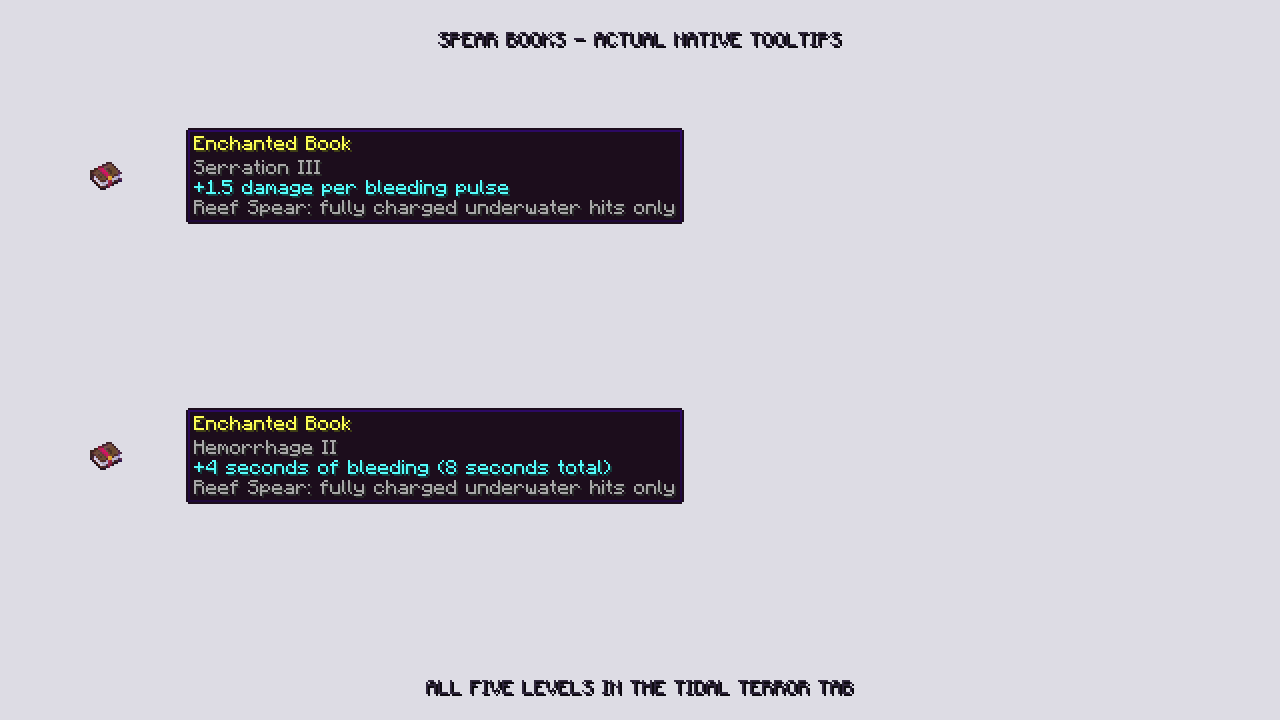
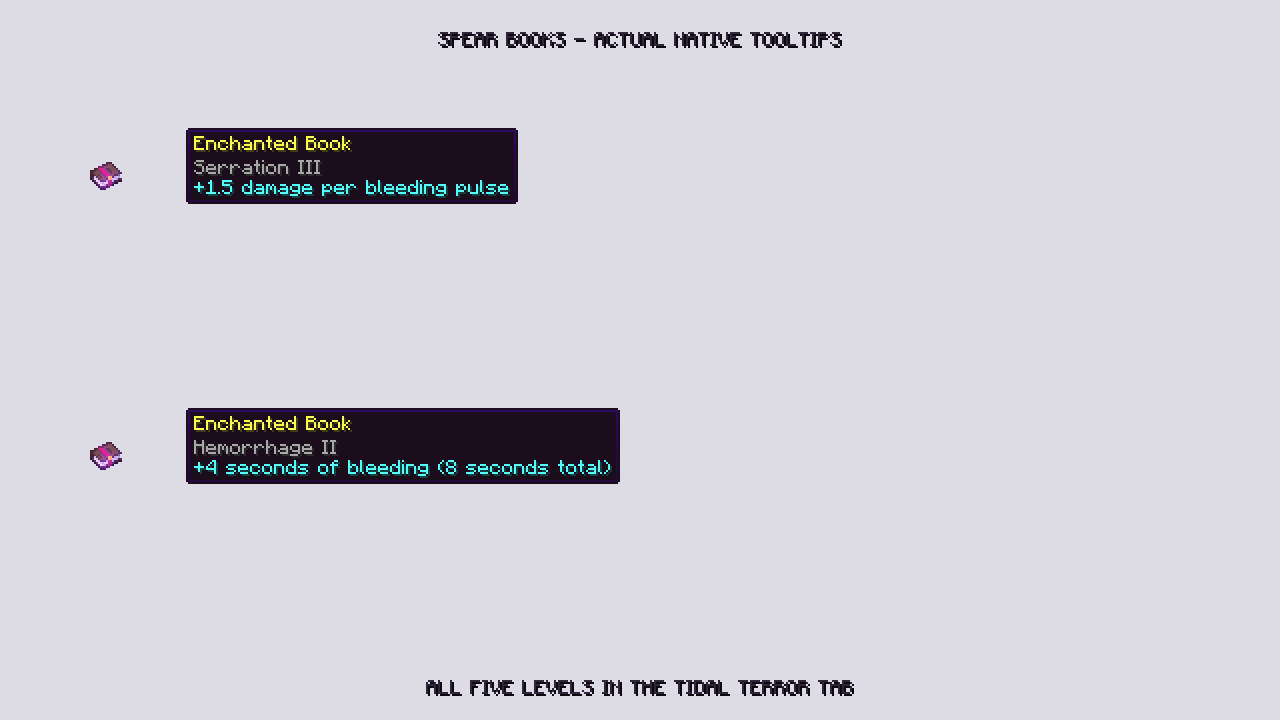
Record native fang arrow and general tooltip verification

diff --git a/docs/Reef-Sprites-and-Bleeding.md b/docs/Reef-Sprites-and-Bleeding.md
@@ -52,7 +52,7 @@ particles, native enchanting-table candidates, actual anvil/book assembly, succe
 JEI 15.20.0.118 loads through `localRuntime` in development clients. It follows
 the [official JEI setup for Minecraft 1.20.1](https://github.com/mezz/JustEnoughItems/wiki/Getting-Started-%5BMinecraft-1.18.2-to-1.20.1%5D).
 It is excluded from native server test runs and is not declared as a required
-mod dependency or bundled into the released JAR. All five shaped equipment
+mod dependency or bundled into the released JAR. All six shaped equipment
 recipes use vanilla crafting and are discovered by JEI without a custom plugin.
 
 ## Verified native client
@@ -88,3 +88,7 @@ Fang Arrow is an ArrowItem in minecraft:arrows, with a registered AbstractArrow 
 Compatibility follows the standard ArrowItem factory and arrow tag; weapons that bypass that factory or replace the projectile with a separate ammunition system need a specific adapter. A registered third-party-style BowItem fixture covers inherited bow behavior. Universal behavior for every modded bow is not claimed.
 
 Book tooltips describe only their general bleeding bonus. Spear tooltips explain full charge, both fighters in water, nonstacking refresh and Crusher Tooth repair. Armor tooltips explain 5% knockback reduction per piece while grounded underwater, 20% full set, and Shardback Plate repair. Armor crafting consumes the matching iron armor piece, three plates and one dead coral block.
+
+The 2026-10-06 revision passed all thirteen equipment GameTests, nine native client framebuffer captures, thirteen release-tooling tests and clean release JAR guards. Native firing tests cover both vanilla ranged weapons and a registered Forge-style bow subclass; arrow tests cover dry-land bleeding, rejected hits, saved piercing and pickup.
+
+![Native gear and fang arrow tooltips](assets/reef-icons/gear-tooltips-native.png)
